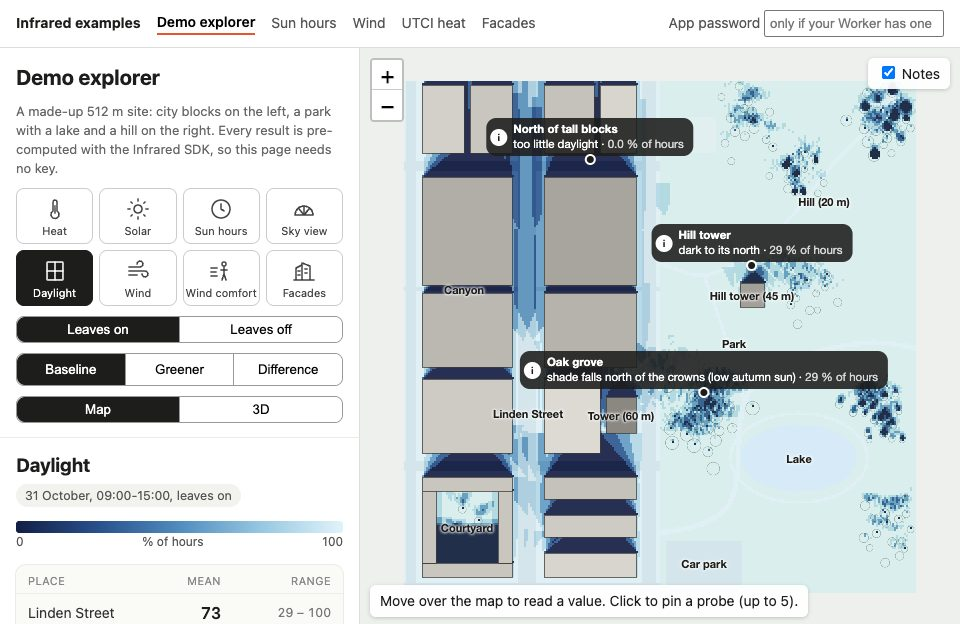
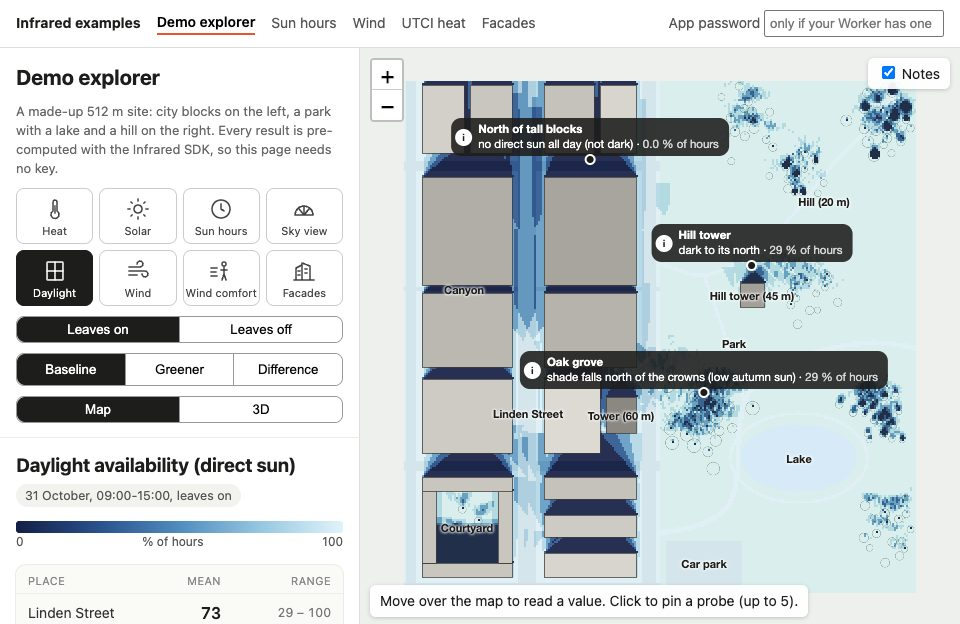
fix(examples): say that "daylight availability" counts direct sun only
The model is direct-beam only (no sky light): DA = direct-sun hours /
half of the window's sun hours, capped at 100 %. A deep street north of a
tall block shows 0 %, which read as "dark". The demo now names it
"Daylight availability (direct sun)", explains 0 % = no sunbeam (not
darkness) in the text, tooltip and pins, and AGENTS.md says it in the
required-inputs table.

Changed region(s): [[0.4688, 0.1827, 0.7812, 0.274], [0.0938, 0.7308, 0.3125, 0.7612]]

diff --git a/apps/examples/src/demo/analyses.ts b/apps/examples/src/demo/analyses.ts
@@ -178,7 +178,7 @@ export const ANALYSES: readonly DemoAnalysis[] = [
   },
   {
     id: 'daylight',
-    label: 'Daylight',
+    label: 'Daylight availability (direct sun)',
     analysisType: 'daylight-availability',
     unit: '% of hours',
     min: 0,
@@ -190,11 +190,11 @@ export const ANALYSES: readonly DemoAnalysis[] = [
     uses: ALL,
     when: '31 October, 09:00-15:00, leaves on',
     explain:
-      'The share of daytime hours with enough daylight on the ground on 31 October, with leafy trees. Deep canyons, courtyards and the north side of tall blocks get too little; open lawns are bright.',
+      'How much DIRECT sun a spot gets on 31 October, with leafy trees. The model counts only sunbeams, not light from the sky: 100 % = direct sun for at least half of the daytime hours, 0 % = no direct sun at all (the spot is not dark, it only never gets a sunbeam). Deep canyons, courtyards and the north side of tall blocks get 0 %; open lawns get 100 %.',
   },
   {
     id: 'daylight-winter',
-    label: 'Daylight (leaf-off)',
+    label: 'Daylight availability (leaf-off)',
     analysisType: 'daylight-availability',
     unit: '% of hours',
     min: 0,
@@ -206,7 +206,7 @@ export const ANALYSES: readonly DemoAnalysis[] = [
     uses: ALL,
     when: '1 November, 09:00-15:00, deciduous trees bare',
     explain:
-      'One day later, after leaf fall: the sun is the same, but bare deciduous crowns let much more daylight through, so the ground under oaks, limes and maples gets brighter. Pines keep their needles and stay dark.',
+      'One day later, after leaf fall: the sun is the same, but bare deciduous crowns let much more direct sun through, so the ground next to oaks, limes and maples gets more of it. Pines keep their needles and still block the sun. As on the leaves-on day, only direct sun counts, not sky light.',
   },
   {
     id: 'wind',

diff --git a/apps/examples/src/explorer/annotations.ts b/apps/examples/src/explorer/annotations.ts
@@ -48,8 +48,8 @@ const WORDS: Partial<Record<AnalysisId, [string, string]>> = {
   'sun-hours': ['Most sun', 'Least sun'],
   'sun-hours-winter': ['Most sun', 'Least sun'],
   svf: ['Most open sky', 'Least open sky'],
-  daylight: ['Brightest', 'Darkest'],
-  'daylight-winter': ['Brightest', 'Darkest'],
+  daylight: ['Most direct sun', 'Least direct sun'],
+  'daylight-winter': ['Most direct sun', 'Least direct sun'],
   wind: ['Windiest', 'Calmest'],
   'facade-sun': ['Sunniest walls', 'Darkest walls'],
 }
@@ -85,9 +85,9 @@ export const NOTES: Partial<
     [420, 385, 'Hill top: open sky'],
   ],
   daylight: [
-    [186, 428, 'North of tall blocks: too little daylight'],
+    [186, 428, 'North of tall blocks: no direct sun all day (not dark)'],
     [300, 195, 'Oak grove: shade falls north of the crowns (low autumn sun)'],
-    [348, 322, 'Hill tower: dark to its north'],
+    [348, 322, 'Hill tower: little direct sun to its north'],
   ],
   'daylight-winter': [
     [300, 195, 'Oak grove after leaf fall: bright again'],
@@ -127,7 +127,7 @@ function windowMean(
 /**
  * The centre (metres) of the highest and lowest 9 m area of a grid, at least
  * 12 m from the edge (a model edge is not a finding). An extreme that covers
- * more than 3 % of the site (a plateau, e.g. 100 % daylight on the open lawn)
+ * more than 3 % of the site (a plateau, e.g. 100 % direct sun on the open lawn)
  * has no single place, so it gets no pin (null).
  */
 function gridExtremes(r: DemoResult & { kind: 'grid' }) {

diff --git a/apps/examples/src/explorer/AnalysisPicker.tsx b/apps/examples/src/explorer/AnalysisPicker.tsx
@@ -47,7 +47,7 @@ const TILES: Partial<Record<AnalysisId, { short: string; tip: string; icon: Reac
   },
   daylight: {
     short: 'Daylight',
-    tip: 'Daylight: the share of daytime hours with enough daylight.',
+    tip: 'Daylight availability: how much of the day a spot gets DIRECT sun (sky light is not counted).',
     icon: (
       <>
         <rect x="4" y="3" width="16" height="18" rx="1" />

diff --git a/README.md b/README.md
@@ -119,7 +119,7 @@ Every picture is the demo explorer with the pre-computed results
 |---|---|
 | ![UTCI baseline](docs/images/demo/utci.jpg) **Heat stress (UTCI)**, July afternoons. Asphalt and open lawns are hot; tree shade, the lake and the shaded canyon are cool. | ![UTCI difference in 3D](docs/images/demo/utci-3d.jpg) **UTCI difference in 3D**: the cooling follows the new street trees. |
 | ![Solar radiation difference](docs/images/demo/solar-diff.jpg) **Solar radiation, difference**: the new trees block up to 85 kWh/m² on the street and up to 173 kWh/m² in the car park in July. | ![Sun hours](docs/images/demo/sun-hours.jpg) **Sun hours**, late October (hours per day): long shadows in the canyon and north of the tall blocks. |
-| ![Sky view factor](docs/images/demo/svf.jpg) **Sky view factor**: low in the 8 m canyon and under tree crowns. | ![Daylight](docs/images/demo/daylight.jpg) **Daylight**, late October: north sides of the tall blocks stay dark. |
+| ![Sky view factor](docs/images/demo/svf.jpg) **Sky view factor**: low in the 8 m canyon and under tree crowns. | ![Daylight](docs/images/demo/daylight.jpg) **Daylight availability**, 31 October: the model counts direct sun only (no sky light), so the north sides of the tall blocks get 0 %: no sunbeam, not darkness. |
 | ![Wind speed](docs/images/demo/wind.jpg) **Wind speed**, 5 m/s from the west: wakes east of the blocks. | ![Wind comfort](docs/images/demo/wind-comfort.jpg) **Wind comfort** (Lawson 2001) from a year of wind: sheltered near the blocks, windier in the open park. |
 | ![Facade sun hours](docs/images/demo/facade-sun.jpg) **Facade and roof sun hours**: every wall and roof, in 3D; the pins mark the sunniest and darkest walls. | ![Phone layout](docs/images/demo/mobile.jpg) The explorer on a phone. |
 

diff --git a/AGENTS.md b/AGENTS.md
@@ -381,7 +381,7 @@ picks the state from the month of `dateFilters` and the latitude:
 | analysisType | Needs (besides the geometry) | Output | Notes |
 |---|---|---|---|
 | `direct-sun-hours` | `latitude`, `longitude`, `dateFilters`. No weather. | hours | See the night-hour rule above. |
-| `daylight-availability` | `latitude`, `longitude`, `dateFilters`. No weather. | % of hours | |
+| `daylight-availability` | `latitude`, `longitude`, `dateFilters`. No weather. | % of hours | **Direct sun only, no sky light.** % = direct-sun hours / (half of the window's sun hours), capped at 100. 0 % = no sunbeam at all, not darkness. |
 | `sky-view-factors` | nothing | % of open sky, 0-100 | No time, no weather. |
 | `solar-radiation` | `latitude`, `longitude`, `dateFilters`, and `weatherData` or `weather` | kWh/m² | Weather is required. |
 | `wind-speed` | `windSpeed` (m/s), `windDirection` (degrees, where the wind comes FROM: 270 = west) | m/s | Buildings only. Several tiles: add `strategy: 'directional_blend', windDirectionDeg` to `options`. |
